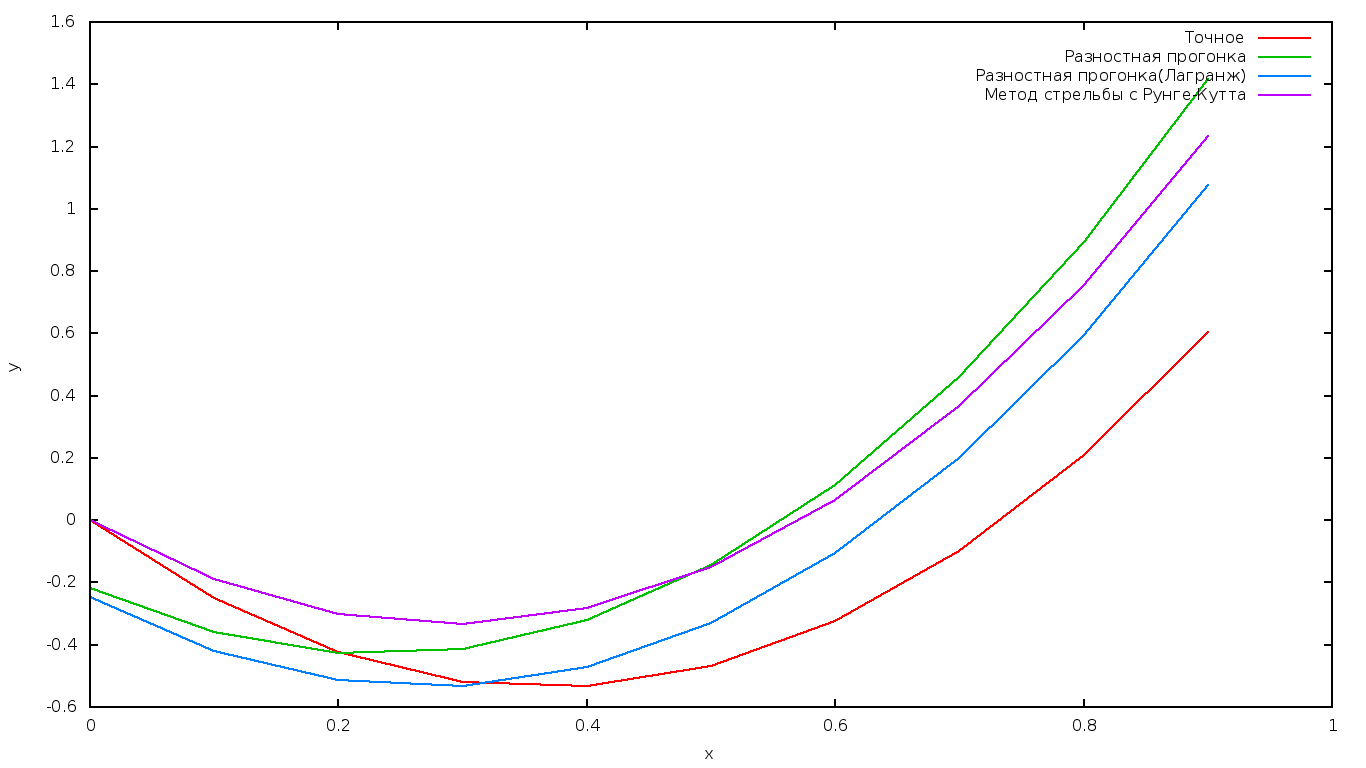
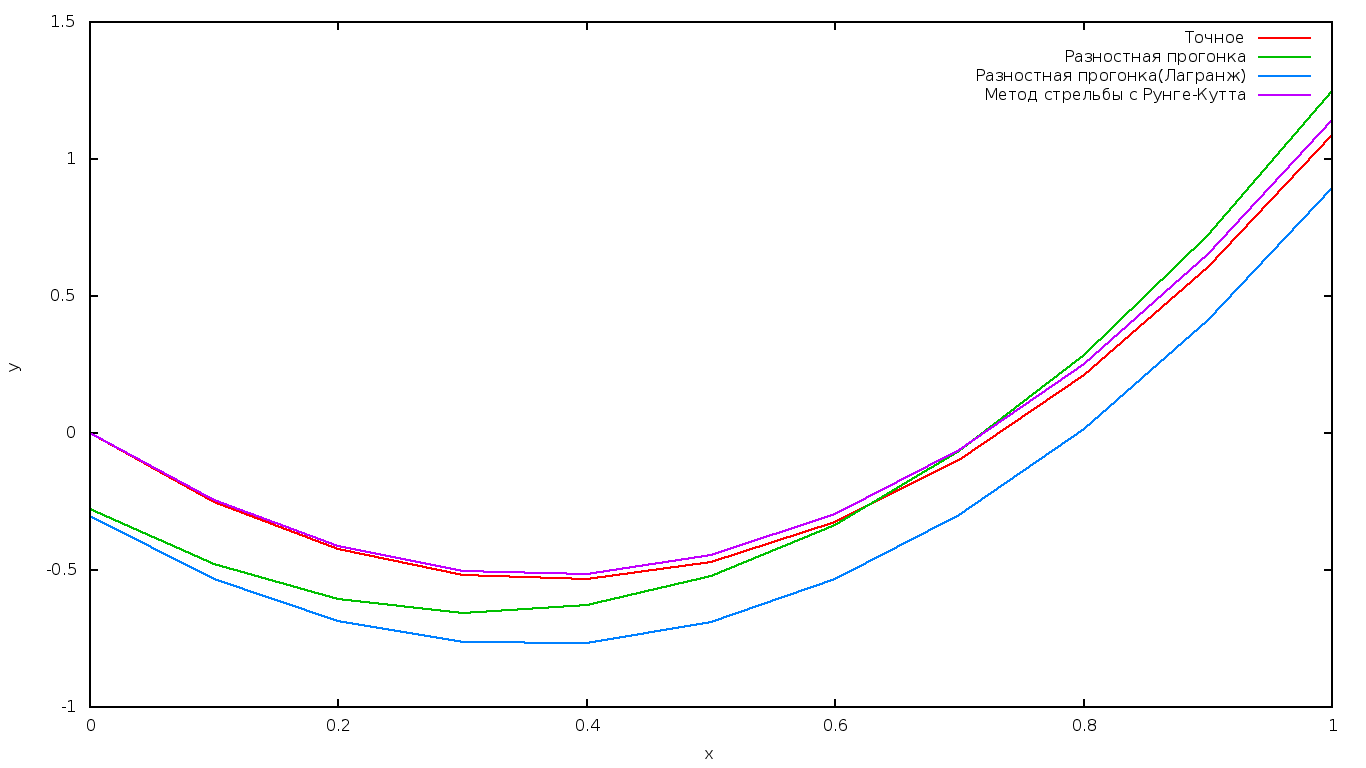
n+1

diff --git a/lab3.cpp b/lab3.cpp
@@ -54,12 +54,12 @@ void TridiagonalMatrixAlgorithm( int N, std::vector< FP >& solution )
 		return -e * h + h / e - 2.9 * h;
 	};
 
-	std::vector< std::vector< FP > > A( N, std::vector< FP >( N ) );
+	std::vector< std::vector< FP > > A( N + 1, std::vector< FP >( N + 1 ) );
 	auto& B = solution;
 
 	FP xi = 0.0;
 
-	for( int i = 0; i < N - 1; i++ )
+	for( int i = 0; i < N; i++ )
 	{
 		FP b = 2.0 + h * h;
 
@@ -73,11 +73,11 @@ void TridiagonalMatrixAlgorithm( int N, std::vector< FP >& solution )
 		xi += h;
 	}
 	
-	A[ N - 1 ][ N - 2 ] = 1.0;
-	A[ N - 1 ][ N - 1 ] = -1.0;
-	B[ N - 1 ] = dn();
+	A[ N ][ N - 1 ] = 1.0;
+	A[ N ][ N ] = -1.0;
+	B[ N ] = dn();
 
-	sweep( A, B, N );
+	sweep( A, B, N + 1 );
 }
 
 
@@ -97,14 +97,14 @@ void TridiagonalMatrixAlgorithmLagrange( int N, std::vector< FP >& solution )
 		return 2.0 * h * ( e - 1.0 / e + 2.9 );
 	};
 
-	std::vector< std::vector< FP > > A( N, std::vector< FP >( N ) );
+	std::vector< std::vector< FP > > A( N + 1, std::vector< FP >( N + 1 ) );
 	auto& B = solution;
 
 	FP xi = 0.0;
 
 	FP b = 2.0 + h * h;
 
-	for( int i = 0; i < N - 1; i++ )
+	for( int i = 0; i < N; i++ )
 	{
 		if( i != 0 )
 			A[ i ][ i - 1 ] = 1.0;
@@ -116,11 +116,11 @@ void TridiagonalMatrixAlgorithmLagrange( int N, std::vector< FP >& solution )
 		xi += h;
 	}
 	
-	A[ N - 1 ][ N - 2 ] = b - 4.0;
-	A[ N - 1 ][ N - 1 ] = 2.0;
-	B[ N - 1 ] = dn() - di( 1.0 - h );
+	A[ N ][ N - 1 ] = b - 4.0;
+	A[ N ][ N ] = 2.0;
+	B[ N ] = dn() - di( 1.0 - h );
 
-	sweep( A, B, N );
+	sweep( A, B, N + 1 );
 }
 
 
@@ -133,7 +133,7 @@ void RungeKutta( Func& V, Func& U, FP h, int N, FP x0, FP* y, FP* z )
 {
 	FP xi = x0;
 
-	for( int i = 0; i < N - 1; i++ )
+	for( int i = 0; i < N; i++ )
 	{
 		const FP& zi = z[ i ];
 		const FP& yi = y[ i ];
@@ -166,8 +166,6 @@ void Shoot( const int N, std::vector< FP >& yiRunge )
 	FP y0 = 0.0;
 	FP z1 = e - 1.0 / e + 2.9;
 
-	FP ziRunge[ N ];
-
 	Func V = []( FP x, FP y, FP z ) -> FP
 	{
 		return z;
@@ -178,9 +176,11 @@ void Shoot( const int N, std::vector< FP >& yiRunge )
 		return y + 7.8 - 2.9 * x * x + 2.9 * x;
 	};
 
+	// Рунге-Кутта
 	FP eta = 0.0;
 
 	yiRunge[ 0 ] = y0;
+	FP ziRunge[ N + 1 ];
 
 	while( 1 )
 	{
@@ -188,11 +188,13 @@ void Shoot( const int N, std::vector< FP >& yiRunge )
 
 		RungeKutta( V, U, h, N, x0, yiRunge.data(), ziRunge );
 
-		if( fabs( ziRunge[ N - 1 ] - z1 ) < 0.0001 ) 
+		if( fabs( ziRunge[ N ] - z1 ) < 0.1 ) 
 				break;
 
-		eta -= ( ziRunge[ N - 1 ] - z1 ) / ziRunge[ N - 1 ];
+		eta -= ( ziRunge[ N ] - z1 ) / ziRunge[ N ];
 	}
+
+	// Эйлер
 }
 
 
@@ -205,9 +207,9 @@ int main( int argc, char* argv[] )
 	int N = atoi( argv[ 1 ] );
 	FP h = 1.0 / ( FP )N;
 
-	std::vector< FP > solution1( N );
-	std::vector< FP > solution2( N );
-	std::vector< FP > solution3( N );
+	std::vector< FP > solution1( N + 1 );
+	std::vector< FP > solution2( N + 1 );
+	std::vector< FP > solution3( N + 1 );
 
 	TridiagonalMatrixAlgorithm( N, solution1 );
 	TridiagonalMatrixAlgorithmLagrange( N, solution2 );
@@ -217,7 +219,7 @@ int main( int argc, char* argv[] )
 
 	FP xi = 0.0f;
 
-	for( int i = 0; i < N; i++ )
+	for( int i = 0; i <= N; i++ )
 	{
 		FP y = -2.0 + exp( -xi ) + exp( xi ) - 2.9 * xi + 2.9 * xi * xi;
 		fprintf( f, "%.06f %.06f %.06f %.06f %.06f\n", xi, y, solution1[ i ], solution2[ i ], solution3[ i ] );
